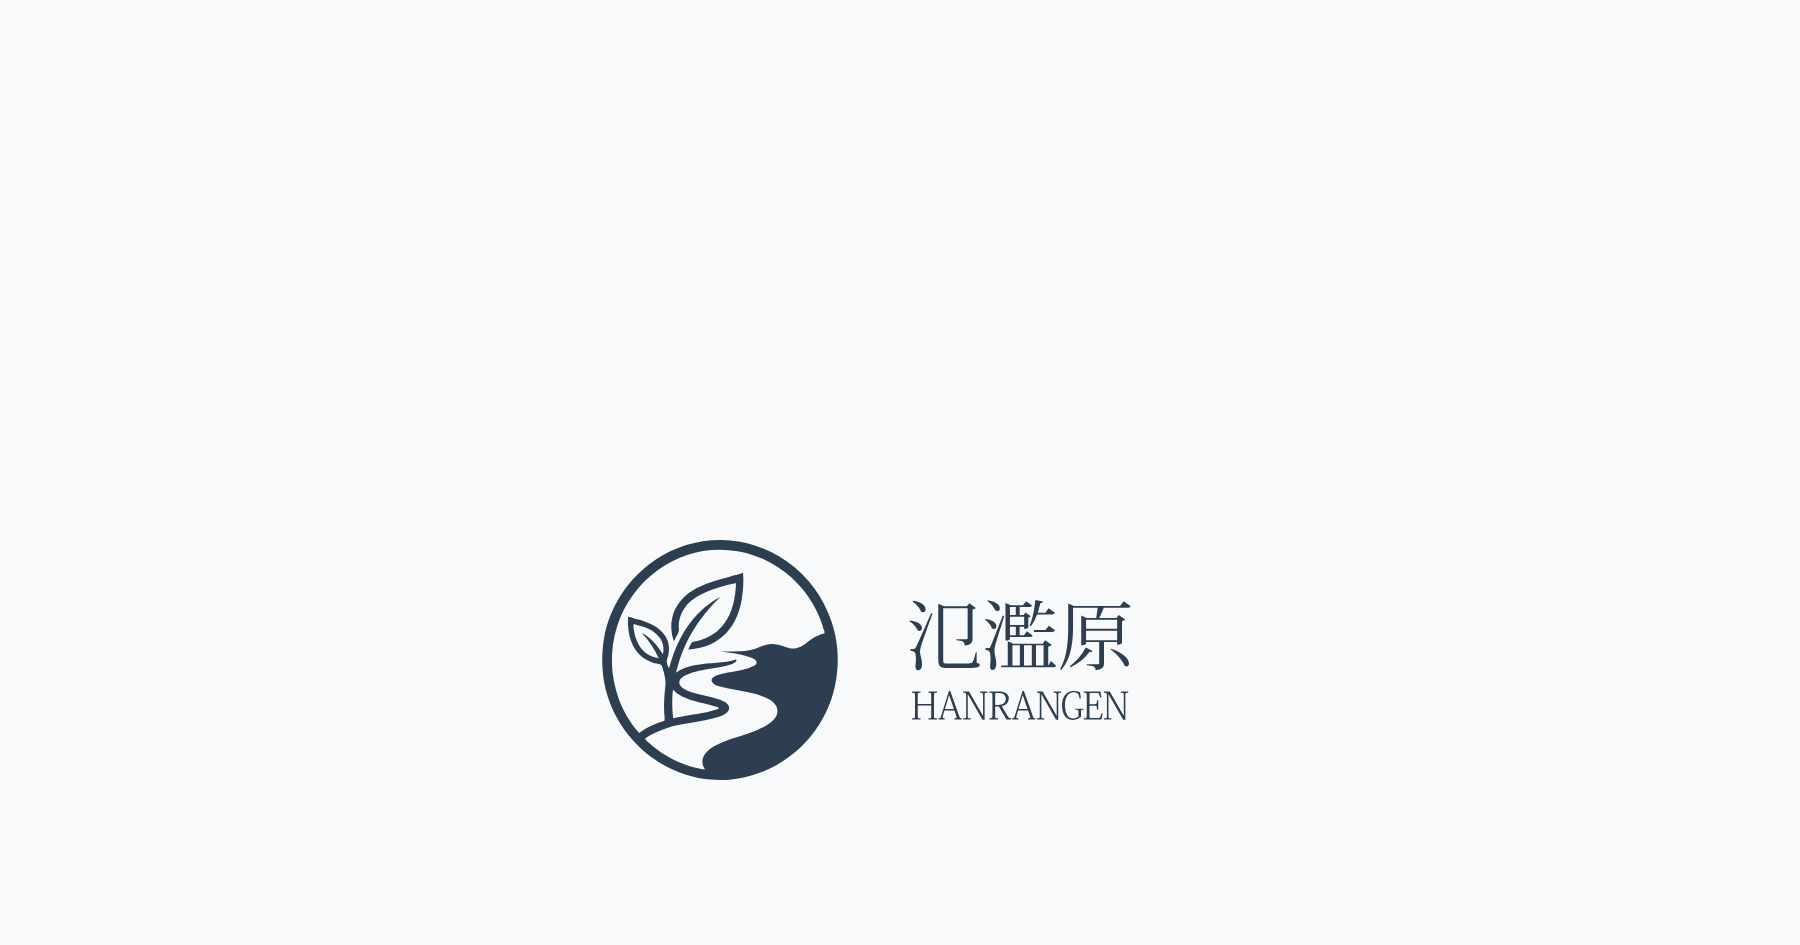
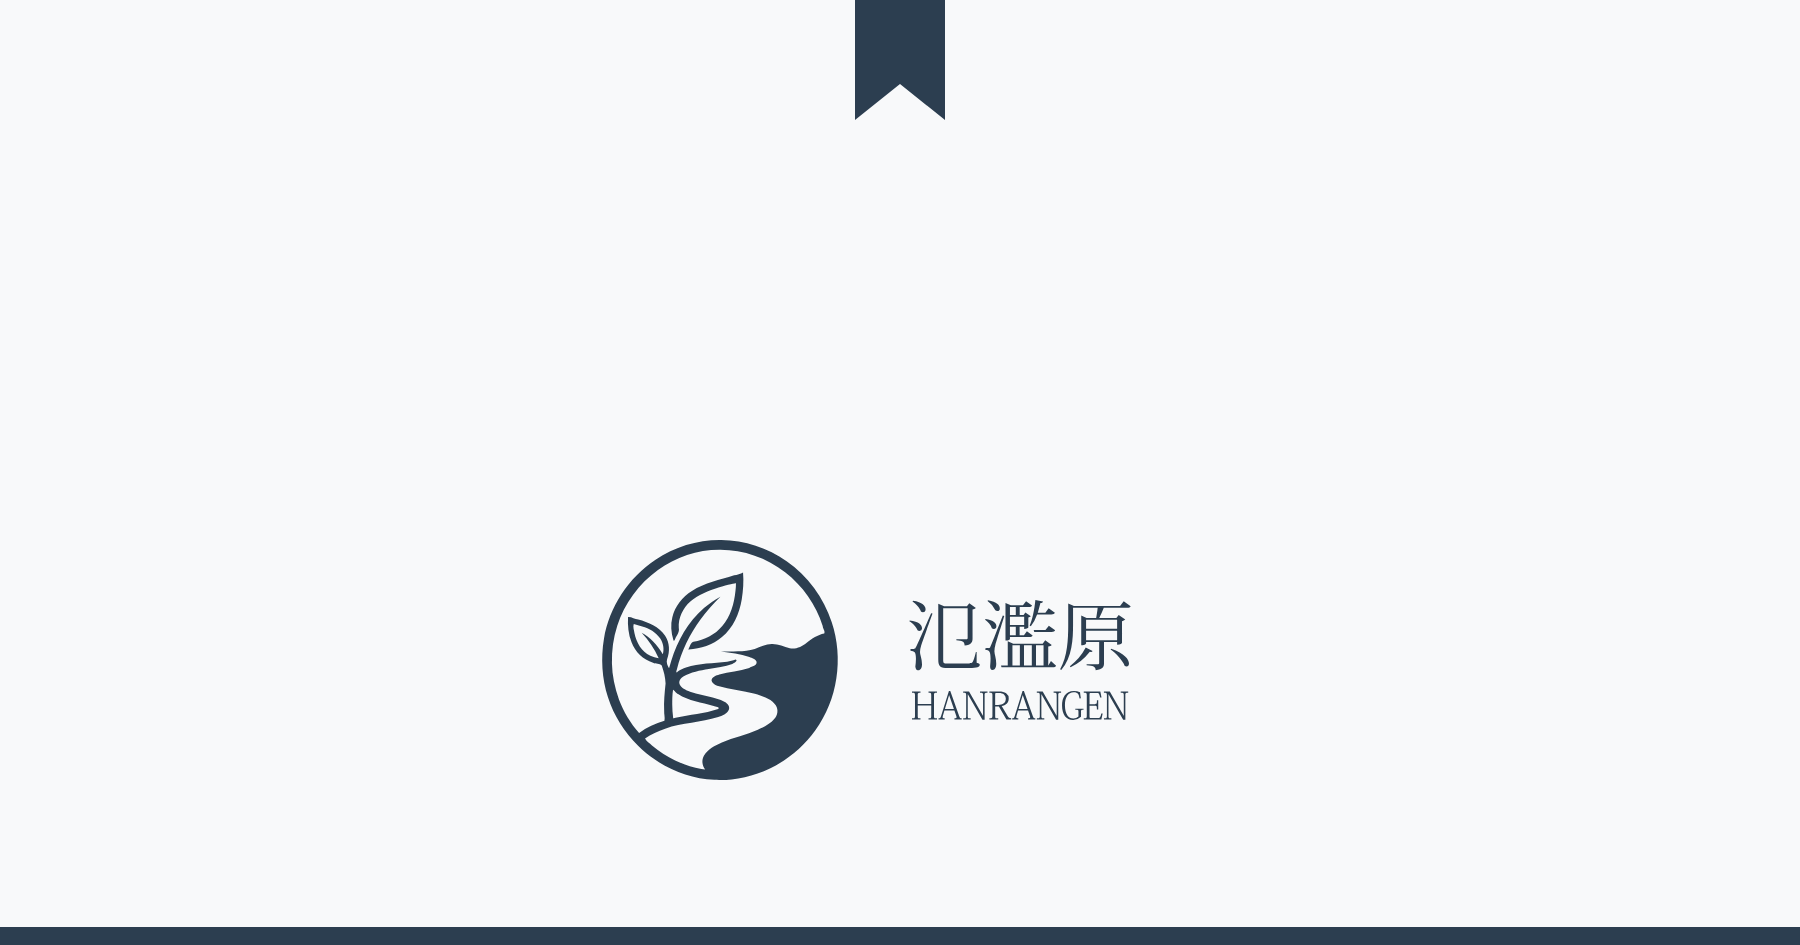
Finalize OGP optimizations with asset caching, layout refinements, and explanatory comments

Changed region(s): [[0.0, 0.982, 1.0, 1.0], [0.4667, 0.0, 0.5289, 0.1228]]

diff --git a/static/images/ogp_template.html b/static/images/ogp_template.html
@@ -21,6 +21,7 @@
       justify-content: center;
       align-items: center;
       overflow: hidden;
+      position: relative;
     }
 
     .logo-container {
@@ -48,11 +49,32 @@
       /* currentColor を使うことで CSS の color 指定を流し込む */
       fill: currentColor;
     }
+
+    .bookmark {
+      position: absolute;
+      top: 0;
+      left: 50%;
+      transform: translateX(-50%);
+      width: 60px;
+      height: 80px;
+      background-color: var(--main-color);
+      clip-path: polygon(0 0, 100% 0, 100% 100%, 50% 70%, 0 100%);
+    }
+
+    .bottom-line {
+      position: absolute;
+      bottom: 0;
+      left: 0;
+      width: 100%;
+      height: 12px;
+      background-color: var(--main-color);
+    }
   </style>
 </head>
 <body>
-
-				<div class="logo-container">
+  <div class="bookmark"></div>
+  <div class="bottom-line"></div>
+  <div class="logo-container">
 					<svg class="logo-icon" viewBox="0 0 191.5 195.08" aria-hidden="true">
 						<g transform="translate(-8.1498 -41.814)">
 							<path fill="currentColor" d="m99.241 236.78c-23.126-1.1243-45.466-11.419-61.899-27.633-11.194-10.914-19.765-24.518-24.503-39.434-4.8789-15.296-5.924-31.784-3.2568-47.605 4.3349-25.969 20.034-49.653 41.905-64.217 15.663-10.624 34.588-16.36 53.521-16.064 18.892 0.22027 37.683 6.2442 53.059 17.253 17.097 12.031 30.236 29.615 36.669 49.527 9.7252 29.178 4.8704 62.947-13.321 87.843-15.704 22.072-40.999 37.181-68 39.956-4.7064 0.48534-9.449 0.6107-14.174 0.37487zm-7.439-8.3684c-2.4311-3.14-2.9804-7.6461-1.0028-11.157 3.0068-5.5754 9.0466-8.4974 14.605-10.939 9.5722-3.9296 19.796-6.0295 29.264-10.246 5.2565-2.2808 10.601-5.0897 14.159-9.7182 2.3584-3.3243 2.527-8.3175-0.46185-11.329-4.1556-4.608-10.379-6.3756-16.112-8.1488-9.8168-2.8011-20.138-3.3497-29.894-6.3751-2.1714-0.80133-4.7973-2.0722-5.335-4.5303 0.2899-3.0229 3.9106-3.8974 6.2978-4.7593 7.9907-2.3357 16.388-2.9638 24.344-5.4439 2.1895-1.0666 6.5232-1.6607 5.9515-4.9196-0.79216-2.5062-3.7271-2.8665-5.8025-3.8581-7.4754-2.6213-15.418-3.4403-23.222-4.5132 9.1983-0.27563 18.628 0.47639 27.575-2.1146 4.6886-1.6701 9.2707-4.2114 14.405-3.9852 4.9132 0.0181 9.376 2.3116 14.046 3.4754 5.0238 0.90895 9.9437-1.4234 13.74-4.5526 4.2902-3.2244 8.8706-6.4204 14.247-7.4345 1.0319-1.8912-1.1547-4.1316-1.2398-6.2072-5.4685-17.193-16.271-32.608-30.548-43.635-15.094-11.859-34.21-18.523-53.427-18.335-17.846-0.006463-35.504 6.0072-49.919 16.465-15.472 11.08-27.205 27.217-33.065 45.317-3.2471 9.8502-4.542 20.257-4.3426 30.606 0.17142 10.006 2.3041 19.939 5.7067 29.328 3.7358 9.9999 9.3786 19.249 16.383 27.293 6.092-4.7156 13.306-7.6985 20.59-10.037 0.57436-2.6541-0.41244-5.3433-0.23511-8.027-0.36627-7.4393 0.39956-14.873 1.1528-22.256-0.18061-5.0085-1.4546-9.9091-3.1238-14.612-1.7164-2.0571-4.84-1.0727-7.0544-2.2666-8.0397-2.2875-14.603-8.6851-17.483-16.486-2.5834-6.5059-3.2289-13.624-2.8475-20.567 2.9132-0.19972 5.4447 1.7241 8.2999 2.0627 8.2641 2.1984 16.87 5.8017 21.85 13.124 3.7087 5.588 4.0095 12.958 1.6069 19.117-0.90677 2.5326 0.39599 5.1465 1.5713 7.2707 0.73591-1.875 1.1081-4.0578 1.8114-6.0252 5.0342-16.199 13.558-31.746 26.579-42.882 4.1197-3.5078 8.6149-6.5659 13.347-9.1864-5.5892 5.7725-11.278 11.504-15.876 18.128-9.0742 12.274-15.799 26.278-19.508 41.093-0.48472 1.1337-0.8632 3.5151 0.75045 1.6347 1.9275-1.5759 4.3788-2.3979 6.6667-3.3484 10.738-3.7822 22.282-3.2712 33.434-4.7276 2.2974-0.39869 4.7159-0.62396 6.8052-1.6709 2.6612 0.69575-1.2391 3.1044-2.5247 3.5054-6.155 2.3672-12.805 2.952-19.257 4.0827-7.0623 1.2335-14.428 2.427-20.631 6.2425-2.1872 1.3384-4.2899 4.18-2.7091 6.7457 2.1108 3.3007 6.0916 4.653 9.5717 5.9948 8.812 3.118 18.526 3.443 26.888 7.8409 2.2518 1.1655 4.3796 3.7465 3.243 6.3781-1.4498 3.4622-5.3664 4.7589-8.6348 5.8991-14.07 4.4973-29.132 4.6358-43.135 9.4152-5.7691 1.8903-11.378 4.415-16.338 7.947 1.0838 2.5538 3.825 3.7622 5.6449 5.7163 11.477 9.6467 25.403 16.38 40.145 19.178 1.002 0.22297 2.0182 0.4253 3.0488 0.43095zm-13.714-97.563c1.3628-1.9952 1.7205-5.5971 4.1769-6.2507 8.9564-1.4863 17.655-5.7047 23.476-12.815 6.7626-8.028 9.714-18.496 10.742-28.769 0.24738-2.016 0.43805-4.0463 0.38119-6.0797-0.0868-0.02766-24.985 4.1681-37.059 14.886-6.1002 5.3426-9.9611 13.389-9.3928 21.575 0.72382 3.3738-1.6559 5.9986-2.9723 8.8758-0.5425 1.2824-1.1937 2.4273-1.5336 0.48837-1.7303-5.8886-2.3046-12.257-0.7439-18.253 2.1363-8.8912 8.1889-16.511 15.91-21.278 10.384-6.7256 22.751-8.8659 34.309-12.715 2.3547-0.51761 5.2452-1.2992 7.2492-2.3811 0.65037 7.3218 0.11201 14.726-1.0646 21.97-1.9011 11.557-6.9926 22.975-16.074 30.649-7.4397 6.4346-17.262 9.6001-26.976 10.151l-0.40372 0.0162-0.02455-0.0691zm-10.305 55.535c11.466-2.7239 23.439-3.2729 34.621-7.1485 1.8928-1.9374-2.5207-1.9099-3.6515-2.5871-9.7456-2.8316-20.332-3.8662-28.954-9.6442-1.5384-0.72581-3.1931-3.4176-4.0623-3.5617-0.66492 4.0122-0.62034 8.1176-0.65194 12.179 0.03687 3.6769 0.26574 7.3556 0.78312 10.997 0.58759 0.40383 1.2929-0.27432 1.9159-0.23492zm-13.717-48.477c-3.4472-7.5933-8.1858-14.584-13.867-20.683 3.4362 1.659 6.415 4.182 9.1467 6.8243 3.1622 3.1618 5.8417 6.7885 8.0632 10.665 1.2753-4.3683 0.36997-9.2838-2.2251-13.012-3.3225-5.0016-8.8483-7.979-14.492-9.6099-2.2828-0.73888-4.5942-1.3846-6.9024-2.0383-0.85966 2.516 0.35181 5.1243 0.60941 7.6504 1.5624 7.4397 5.6767 15.028 12.899 18.244 2.143 0.97417 4.4127 1.7407 6.7678 1.9605z"/>

diff --git a/app/ogp.go b/app/ogp.go
@@ -36,6 +36,8 @@ func getOGPPalette() color.Palette {
 	ogpPaletteOnce.Do(func() {
 		p := make(color.Palette, 0, 16)
 		p = append(p, color.RGBA{ogpBgR, ogpBgG, ogpBgB, 255})
+
+		// 濃紺 (#2c3e50) へのグラデーション (14段階)
 		for i := 0; i < 14; i++ {
 			t := float64(i) / 13.0
 			p = append(p, color.RGBA{
@@ -45,6 +47,7 @@ func getOGPPalette() color.Palette {
 				A: 255,
 			})
 		}
+		// 単色グレー (#78828c) を追加
 		p = append(p, color.RGBA{120, 130, 140, 255})
 		ogpPalette = p
 	})
@@ -63,7 +66,7 @@ func (app *AppImpl) loadOGPAssets() {
 			} else if img != nil {
 				// RGBAでない場合は変換してキャッシュ
 				b := img.Bounds()
-				rgba = image.NewRGBA(b)
+				rgba := image.NewRGBA(b)
 				draw.Draw(rgba, b, img, b.Min, draw.Src)
 				ogpBaseImage = rgba
 			}
@@ -86,6 +89,7 @@ func (app *AppImpl) HandleOGP(c echo.Context) error {
 
 	cachePath := filepath.Join("var", "cache", "ogp", fmt.Sprintf("%d.png", id))
 
+	// 開発環境かつスーパーリロード時はキャッシュを破棄する
 	if app.config.IsDevelopment() {
 		cc := c.Request().Header.Get("Cache-Control")
 		pragma := c.Request().Header.Get("Pragma")
@@ -94,22 +98,25 @@ func (app *AppImpl) HandleOGP(c echo.Context) error {
 		}
 	}
 
+	// キャッシュがあれば即座に返す
 	if _, err := os.Stat(cachePath); err == nil {
 		return c.File(cachePath)
 	}
 
+	// 記事タイトルを取得
 	entry, err := app.queries.GetEntryById(c.Request().Context(), id)
 	if err != nil {
 		return echo.NewHTTPError(http.StatusNotFound, "Entry not found")
 	}
 
-	// 1. アセットのロード
+	// 1. アセットのロード（初回のみ）
 	app.loadOGPAssets()
 
-	// 2. 背景の準備（copyによる高速化）
+	// 2. 背景の準備
 	bounds := image.Rect(0, 0, 1200, 630)
 	dst := image.NewRGBA(bounds)
 	if ogpBaseImage != nil {
+		// メモリコピーによる高速化
 		copy(dst.Pix, ogpBaseImage.Pix)
 	} else {
 		draw.Draw(dst, dst.Bounds(), image.NewUniform(color.RGBA{ogpBgR, ogpBgG, ogpBgB, 255}), image.Point{}, draw.Src)
@@ -127,11 +134,15 @@ func (app *AppImpl) HandleOGP(c echo.Context) error {
 
 	// 3. テキストの準備
 	title := entry.DisplayTitle()
+	// 豆腐対策: ✖ を一般的な × に置換
 	title = strings.ReplaceAll(title, "✖", "×")
+	// 極端に長いタイトルの描画負荷を避ける
 	if len([]rune(title)) > 200 {
 		title = string([]rune(title)[:200])
 	}
+
 	dateStr := entry.CreatedAt.Format("2006 . 01 . 02")
+	// パスからその日の何番目かを取得 (例: /2026/01/08/1 -> #1)
 	pathParts := strings.Split(strings.Trim(entry.Path, "/"), "/")
 	if len(pathParts) > 0 {
 		seq := pathParts[len(pathParts)-1]
@@ -139,6 +150,7 @@ func (app *AppImpl) HandleOGP(c echo.Context) error {
 			dateStr = fmt.Sprintf("%s  #%s", dateStr, seq)
 		}
 	}
+
 	tags := entry.Tags()
 	tagStr := ""
 	for _, t := range tags {
@@ -157,7 +169,7 @@ func (app *AppImpl) HandleOGP(c echo.Context) error {
 		needsFade = true
 	}
 
-	// 5. 描画ターゲットの決定
+	// 5. 描画ターゲットの決定（フェードが必要な場合のみレイヤーを使用）
 	var drawDst draw.Image = dst
 	var textLayer *image.RGBA
 	if needsFade {
@@ -195,7 +207,7 @@ func (app *AppImpl) HandleOGP(c echo.Context) error {
 	d.Dot = fixed.Point26_6{X: titleX, Y: fixed.I(centerY - 20)}
 	d.DrawString(title)
 
-	// 6. 合成
+	// 6. 合成 (フェードと合成を統合して最適化)
 	if needsFade {
 		fadeEnd := dst.Bounds().Dx() - margin
 		fadeLen := 120
@@ -203,27 +215,40 @@ func (app *AppImpl) HandleOGP(c echo.Context) error {
 		stride := textLayer.Stride
 		for y := 0; y < dst.Bounds().Dy(); y++ {
 			rowOffset := y * stride
-			for x := fadeStart; x < dst.Bounds().Dx(); x++ {
+			for x := 0; x < dst.Bounds().Dx(); x++ {
+				pixIdx := rowOffset + x*4
+				srcA := uint32(textLayer.Pix[pixIdx+3])
+				if srcA == 0 {
+					continue
+				}
+
 				var mask float64 = 1.0
 				if x >= fadeEnd {
 					mask = 0
-				} else {
+				} else if x >= fadeStart {
 					mask = float64(fadeEnd-x) / float64(fadeLen)
 				}
 
-				if mask < 1.0 {
-					pixIdx := rowOffset + x*4
-					a := textLayer.Pix[pixIdx+3]
-					if a > 0 {
-						textLayer.Pix[pixIdx] = uint8(float64(textLayer.Pix[pixIdx]) * mask)
-						textLayer.Pix[pixIdx+1] = uint8(float64(textLayer.Pix[pixIdx+1]) * mask)
-						textLayer.Pix[pixIdx+2] = uint8(float64(textLayer.Pix[pixIdx+2]) * mask)
-						textLayer.Pix[pixIdx+3] = uint8(float64(a) * mask)
-					}
+				if mask <= 0 {
+					continue
 				}
+
+				srcR := uint32(float64(textLayer.Pix[pixIdx]) * mask)
+				srcG := uint32(float64(textLayer.Pix[pixIdx+1]) * mask)
+				srcB := uint32(float64(textLayer.Pix[pixIdx+2]) * mask)
+				srcA = uint32(float64(srcA) * mask)
+
+				dstR := uint32(dst.Pix[pixIdx])
+				dstG := uint32(dst.Pix[pixIdx+1])
+				dstB := uint32(dst.Pix[pixIdx+2])
+
+				// Simplified Over blending
+				a := (255 - srcA)
+				dst.Pix[pixIdx] = uint8((srcR*255 + dstR*a) / 255)
+				dst.Pix[pixIdx+1] = uint8((srcG*255 + dstG*a) / 255)
+				dst.Pix[pixIdx+2] = uint8((srcB*255 + dstB*a) / 255)
 			}
 		}
-		draw.Draw(dst, dst.Bounds(), textLayer, image.Point{}, draw.Over)
 	}
 
 	// 7. パレット変換と保存
